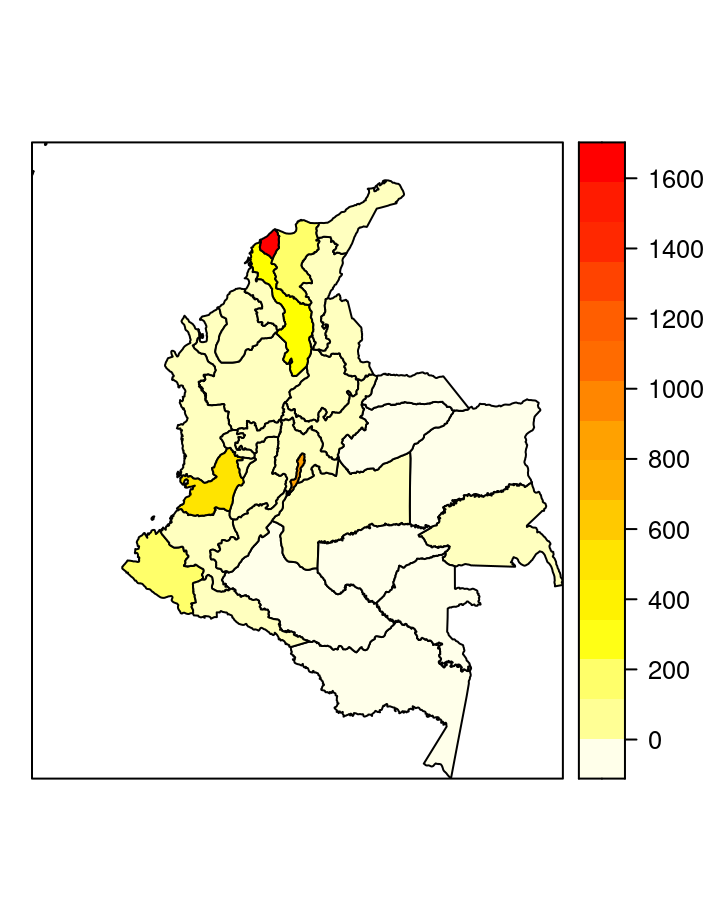
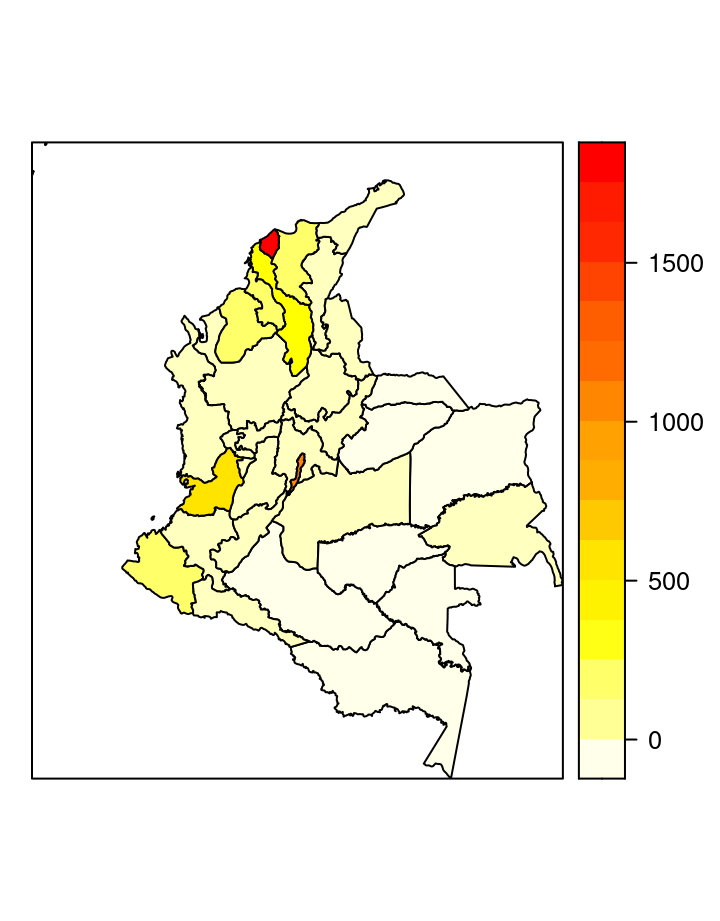
Adicion de pagina con mapa de recumerados e infectados

diff --git a/Tablero.html b/Tablero.html
@@ -2622,38 +2622,38 @@ window.FlexDashboardComponents.push({
 </div>
 <pre><code>                       
                         En casa Fallec. Hospital. En UCI    NA Recuperados
-  Antioquia                3991      57       318     41     5        2361
-  Atlantico               15122    1591      1266    198    79       10476
-  Bogota D.C              20844     881      2105    140    50       15228
-  Bolivar                  4531     417       273     60    23        5641
-  Boyaca                    148      13        28      3     5         247
-  Caldas                     58       7         9      1     1         202
-  Caquetá                    35       1         7      0     1          23
-  Cauca                     320      22        50     19     0         188
-  Cesar                     539      32        80      5     2         683
-  Cordoba                   572      85       177     52     7         294
-  Cundinamarca             1342      71       200     18    10        1686
-  Chocó                    1033      60       142     28     3         736
-  Huila                      89      11         6      1     4         278
-  La Guajira                503      32        43      8     2         138
-  Magdalena                1084     158       148     23     8         887
-  Meta                      333      17        20      5     2        1009
-  Nariño                   1318     124       210     31     8        2386
-  Norte De Santander        165      21        22      5     1         201
-  Quindio                    40       5         0      0     1         131
-  Risaralda                 255      18        21      7     1         335
-  Santander                 693      20        61      5     1         284
-  Sucre                    1330     107       281     20     4         261
-  Tolima                    711      25        31      2     4         403
-  Valle del Cauca          5299     476       868    213    23        5566
-  Arauca                    109       0         3      1     0           8
-  Casanare                   36       0         2      1     0          49
-  Putumayo                   11       8         8      2     0           9
+  Antioquia                5252      71       398     53     6        2671
+  Atlantico               15590    1756      1349    202    81       12904
+  Bogota D.C              24609    1007      2455    144    69       16755
+  Bolivar                  4554     432       302     63    24        6358
+  Boyaca                    155      14        32      2     5         271
+  Caldas                     61       7        12      1     1         214
+  Caquetá                    50       2         9      1     1          23
+  Cauca                     391      23        70     20     0         206
+  Cesar                     510      33        83      6     2         784
+  Cordoba                   723     148       245     59     8         326
+  Cundinamarca             1719      81       263     20    10        1866
+  Chocó                     983      65       151     28     3         896
+  Huila                     103      13         5      1     4         290
+  La Guajira                566      44        51      7     2         174
+  Magdalena                1256     196       188     21     8         986
+  Meta                      433      17        23      5     2        1035
+  Nariño                   1477     132       235     31     8        2535
+  Norte De Santander        243      25        25      4     2         212
+  Quindio                    49       5         0      0     1         139
+  Risaralda                 311      20         8     10     1         366
+  Santander                 785      24        85      9     1         340
+  Sucre                    1521     142       326     16     4         367
+  Tolima                    842      25        37      5     4         511
+  Valle del Cauca          5918     532       998    221    27        6257
+  Arauca                    120       0         1      1     0          19
+  Casanare                   57       1         3      0     0          51
+  Putumayo                   20       8         8      3     0          10
   Amazonas                    6       0         0      0     1          21
-  Guainia                   186      98         9      8     1        2089
+  Guainia                   128     100        10      7     2        2159
   Guaviare                    2       1         0      0     0          11
-  Vaupes                     29       0         1      0     0           9
-  Vichada                     7       1         0      0     0          20
+  Vaupes                     20       0         1      0     0          21
+  Vichada                     7       1         0      0     0          21
   San Andres P.y Sta C.       0       0         0      0     0           1</code></pre>
 </div>
 </div>

diff --git a/Tablero2.html b/Tablero2.html
@@ -8,9 +8,9 @@
 
 
 
-<title>Covid-19 Colombia infectados netos</title>
+<title>Covid-19 Colombia</title>
 
-<meta property="og:title" content="Covid-19 Colombia infectados netos" />
+<meta property="og:title" content="Covid-19 Colombia" />
 
 <meta name='viewport' content='width=device-width, initial-scale=1.0, maximum-scale=1.0, user-scalable=no' />
 
@@ -805,7 +805,7 @@ html, body {
   
 </span>
 <span class="navbar-brand">
-  Covid-19 Colombia infectados netos
+  Covid-19 Colombia
   <span class="navbar-author">
         </span>
 </span>
@@ -820,6 +820,8 @@ html, body {
 </div><!--/.container-->
 </div><!--/.navbar-->
 
+<img class="mobile-figure" data-mobile-figure-id=fig1 src="Tablero2_files/figure-html/unnamed-chunk-2-1.mb.png" />
+<img class="mobile-figure" data-mobile-figure-id=fig2 src="Tablero2_files/figure-html/unnamed-chunk-3-1.mb.png" />
 <script type="text/javascript">
 
 
@@ -2612,7 +2614,23 @@ window.FlexDashboardComponents.push({
 
 <div id="dashboard-container">
 
+<div class="knitr-options" data-fig-width="576" data-fig-height="460">
 
+</div>
+<div id="column" class="section level2" data-width="600">
+<h2>Column</h2>
+<div id="infectados-por-departamento" class="section level3">
+<h3>Infectados por departamento</h3>
+<div class="knitr-options" data-fig-width="576" data-fig-height="460">
+
+</div>
+<p><img src="Tablero2_files/figure-html/unnamed-chunk-2-1.png" width="576" data-figure-id=fig1 /> ### Recuperados por departamento</p>
+<div class="knitr-options" data-fig-width="576" data-fig-height="460">
+
+</div>
+<p><img src="Tablero2_files/figure-html/unnamed-chunk-3-1.png" width="576" data-figure-id=fig2 /></p>
+</div>
+</div>
 
 </div>
 

diff --git a/index.html b/index.html
@@ -280,6 +280,9 @@ $(document).ready(function () {
 <li>
   <a href="Tablero.html">Covid 19 Colombia</a>
 </li>
+<li>
+  <a href="Tablero2.html">Covid 19 Colombia</a>
+</li>
       </ul>
       <ul class="nav navbar-nav navbar-right">
         
